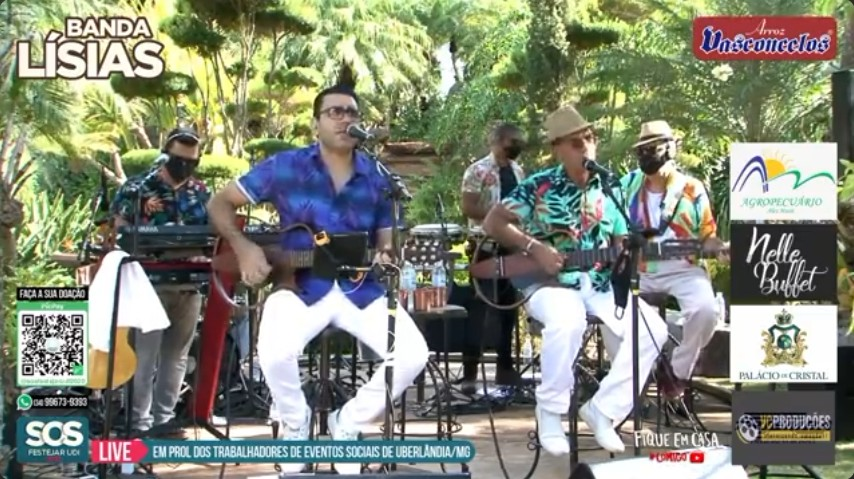
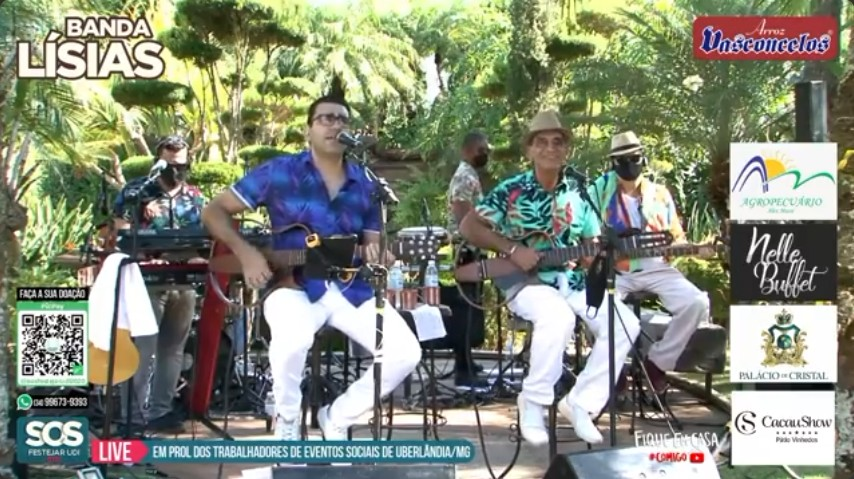
Capa da live no minuto 47:53

diff --git a/index.html b/index.html
@@ -306,10 +306,10 @@ footer .wrap{display:flex;justify-content:space-between;gap:20px;flex-wrap:wrap}
     <div><span class="rotulo"><svg viewBox="0 0 24 24" aria-hidden="true"><path d="M3 10v4M7 6v12M11 9v6M15 4v16M19 8v8"/></svg>Lísias e Banda</span><h2>Live SOS Festejar UDI</h2></div>
     <p>Gravada em 11/07/2020, com a Lísias e Banda.</p>
   </div>
-  <a class="video-capa" href="https://www.youtube.com/watch?v=wPSYfv7viOA&t=3585s" target="_blank" rel="noopener">
+  <a class="video-capa" href="https://www.youtube.com/watch?v=wPSYfv7viOA&t=2873s" target="_blank" rel="noopener">
     <img src="instagram/capa-live.jpg" alt="Lísias e Banda na Live SOS Festejar UDI" loading="lazy">
     <span class="play" aria-hidden="true"></span>
-    <span class="txt"><b>Assistir à live no YouTube</b>A partir de 59:45, quando eu entro.</span>
+    <span class="txt"><b>Assistir à live no YouTube</b>A partir de 47:53, quando eu entro.</span>
   </a>
 </div></section>
 
